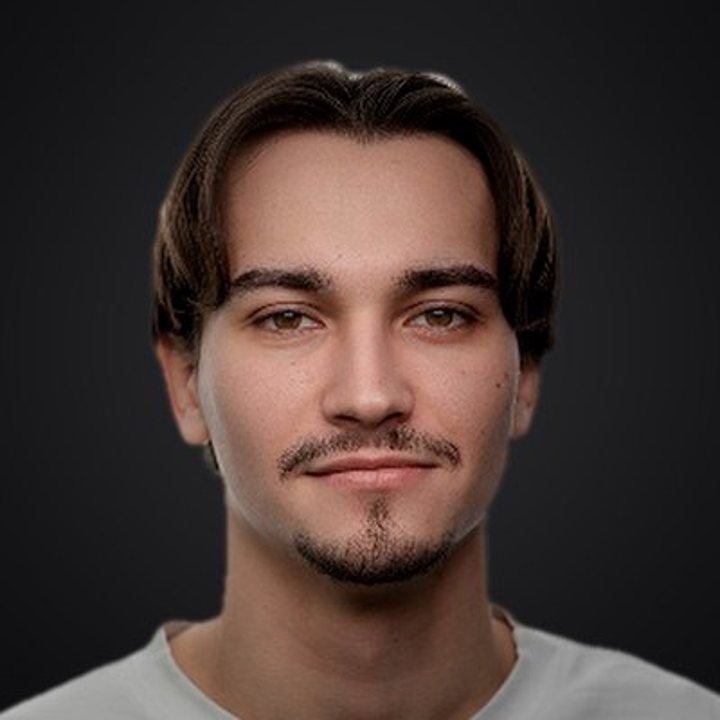
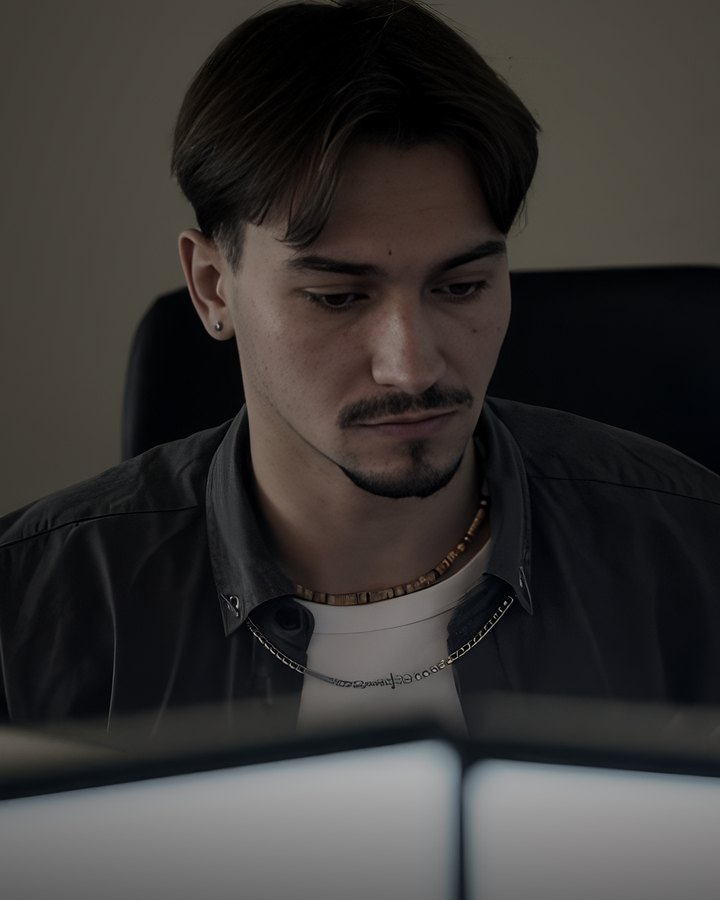
Hero: real photo, letter block with key points, Technopark instead of UBO

diff --git a/index.html b/index.html
@@ -352,6 +352,22 @@ dialog.player video { width: 100%; max-height: 88vh; display: block; background:
 .lead-t { font-size: clamp(22px, 2.5vw, 34px); font-weight: 700; line-height: 1.12; }
 .who-t { font-size: clamp(19px, 2vw, 27px); font-weight: 500; line-height: 1.38; }
 .case-cols p:first-child::first-letter { font-weight: 800; font-size: 44px; }
+/* ── письмо v2: главные мысли крупно, материалы списком ── */
+.letter2 { display: grid; grid-template-columns: minmax(0, 1.15fr) minmax(0, .85fr); gap: clamp(28px, 5vw, 84px); align-items: start; }
+@media (max-width: 860px) { .letter2 { grid-template-columns: 1fr; } }
+.l2-lead { font-weight: 800; font-size: clamp(28px, 3.3vw, 48px); line-height: 1.08; letter-spacing: -.02em; text-wrap: balance; max-width: 20ch; }
+.l2-lead em { font-style: normal; color: var(--gold); display: block; margin-top: .18em; }
+.l2-note { margin-top: 26px; font-size: clamp(16px, 1.3vw, 19px); line-height: 1.62; color: var(--dust); max-width: 50ch; }
+.l2-note b { color: var(--bone); font-weight: 600; }
+.letter2 .sign { margin-top: 34px; max-width: 22rem; }
+.l2-k { font-family: var(--mono); font-size: 12px; letter-spacing: .16em; text-transform: uppercase; color: var(--mute); margin-bottom: 14px; }
+.l2-list { list-style: none; border-top: 1px solid var(--line); }
+.l2-list li { display: flex; gap: 18px; align-items: baseline; padding: 18px 0; border-bottom: 1px solid var(--line); font-weight: 700; font-size: clamp(17px, 1.55vw, 22px); line-height: 1.3; }
+.l2-list li span { font-family: var(--mono); font-size: 12px; font-weight: 400; letter-spacing: .14em; color: var(--gold); flex-shrink: 0; }
+.l2-more { margin-top: clamp(30px, 5vh, 48px); font-family: var(--mono); font-size: 12.5px; letter-spacing: .14em; text-transform: uppercase; color: var(--dust); }
+/* hero — реальное фото: своё затемнение уже в кадре, CSS-градиент мягче */
+.hero-frame img { filter: none !important; object-position: 66% 40% !important; }
+.hero-frame::after { background: linear-gradient(90deg, rgba(8,8,10,.55) 0%, rgba(8,8,10,.15) 40%, rgba(8,8,10,0) 60%) !important; }
 </style>
 </head>
 <body class="v-client">
@@ -363,7 +379,7 @@ dialog.player video { width: 100%; max-height: 88vh; display: block; background:
 
 <main id="top">
   <section class="hero">
-    <div class="hero-frame"><img src="media/hero_A1.jpg" alt="Alexander Rakipov в монтажной" fetchpriority="high"></div>
+    <div class="hero-frame"><img src="media/hero_real.jpg" alt="Alexander Rakipov в монтажной" fetchpriority="high"></div>
     <div class="grain"></div>
     <div class="hero-scan"></div>
     <div class="hero-body">
@@ -377,19 +393,29 @@ dialog.player video { width: 100%; max-height: 88vh; display: block; background:
     </div>
     <div class="hero-foot">
       <div>TC <b>00:00:00:00</b> &nbsp;·&nbsp; 2024–2026 &nbsp;·&nbsp; <b>100+</b> роликов</div>
-      <div class="cap">AI-кадр · лицо держится по трём фото</div>
+      <div class="cap">Монтажная · Минск</div>
     </div>
   </section>
 
   <section class="sec p-only" id="letter">
     <div class="sec-head"><span class="sec-k">TC 00:15 · Павлу</span><h2 class="sec-t">Зачем эта страница</h2></div>
-    <div class="letter">
-      <div class="letter-t">
-        <p>Павел, ты строишь клиентам систему продаж. Дальше этой системе нужны <em>материалы</em>: ролик, который объясняет продукт, отзывы клиентов, презентация, после которой менеджеру есть что отправить, реклама, которая приводит заявки.</p>
-        <p>Сейчас твои клиенты собирают это у разных подрядчиков, а координация ложится на тебя. Эту часть я могу взять на себя. Ниже то, что я делаю, и как это выглядит на деле. Начну с твоего же Instagram.</p>
+    <div class="letter2">
+      <div>
+        <p class="l2-lead">Павел, ты строишь клиентам систему продаж. <em>Я даю ей материалы, которые продают.</em></p>
+        <p class="l2-note">Сейчас клиенты собирают их у разных подрядчиков, а координация ложится на тебя. <b>Эту часть беру на себя: один контакт, режиссура моя, продакшн — команда.</b></p>
+        <div class="sign"><b>Alexander Rakipov</b>режиссёр · AI-видео и продакшн<br>t.me/aliaksrakipov</div>
       </div>
-      <div class="sign"><b>Alexander Rakipov</b>режиссёр · AI-видео и продакшн<br>t.me/aliaksrakipov</div>
+      <div>
+        <div class="l2-k">Что нужно системе продаж</div>
+        <ol class="l2-list">
+          <li><span>01</span>Ролик, который объясняет продукт</li>
+          <li><span>02</span>Отзывы клиентов, которым верят</li>
+          <li><span>03</span>Презентация, которую менеджер отправляет после звонка</li>
+          <li><span>04</span>Реклама, которая приводит заявки</li>
+        </ol>
+      </div>
     </div>
+    <p class="l2-more">Ниже — как это выглядит на деле. Начну с твоего же Instagram.</p>
   </section>
 
   <section class="sec" id="services">

diff --git a/pavel.html b/pavel.html
@@ -352,6 +352,22 @@ dialog.player video { width: 100%; max-height: 88vh; display: block; background:
 .lead-t { font-size: clamp(22px, 2.5vw, 34px); font-weight: 700; line-height: 1.12; }
 .who-t { font-size: clamp(19px, 2vw, 27px); font-weight: 500; line-height: 1.38; }
 .case-cols p:first-child::first-letter { font-weight: 800; font-size: 44px; }
+/* ── письмо v2: главные мысли крупно, материалы списком ── */
+.letter2 { display: grid; grid-template-columns: minmax(0, 1.15fr) minmax(0, .85fr); gap: clamp(28px, 5vw, 84px); align-items: start; }
+@media (max-width: 860px) { .letter2 { grid-template-columns: 1fr; } }
+.l2-lead { font-weight: 800; font-size: clamp(28px, 3.3vw, 48px); line-height: 1.08; letter-spacing: -.02em; text-wrap: balance; max-width: 20ch; }
+.l2-lead em { font-style: normal; color: var(--gold); display: block; margin-top: .18em; }
+.l2-note { margin-top: 26px; font-size: clamp(16px, 1.3vw, 19px); line-height: 1.62; color: var(--dust); max-width: 50ch; }
+.l2-note b { color: var(--bone); font-weight: 600; }
+.letter2 .sign { margin-top: 34px; max-width: 22rem; }
+.l2-k { font-family: var(--mono); font-size: 12px; letter-spacing: .16em; text-transform: uppercase; color: var(--mute); margin-bottom: 14px; }
+.l2-list { list-style: none; border-top: 1px solid var(--line); }
+.l2-list li { display: flex; gap: 18px; align-items: baseline; padding: 18px 0; border-bottom: 1px solid var(--line); font-weight: 700; font-size: clamp(17px, 1.55vw, 22px); line-height: 1.3; }
+.l2-list li span { font-family: var(--mono); font-size: 12px; font-weight: 400; letter-spacing: .14em; color: var(--gold); flex-shrink: 0; }
+.l2-more { margin-top: clamp(30px, 5vh, 48px); font-family: var(--mono); font-size: 12.5px; letter-spacing: .14em; text-transform: uppercase; color: var(--dust); }
+/* hero — реальное фото: своё затемнение уже в кадре, CSS-градиент мягче */
+.hero-frame img { filter: none !important; object-position: 66% 40% !important; }
+.hero-frame::after { background: linear-gradient(90deg, rgba(8,8,10,.55) 0%, rgba(8,8,10,.15) 40%, rgba(8,8,10,0) 60%) !important; }
 </style>
 </head>
 <body class="v-pavel">
@@ -363,7 +379,7 @@ dialog.player video { width: 100%; max-height: 88vh; display: block; background:
 
 <main id="top">
   <section class="hero">
-    <div class="hero-frame"><img src="media/hero_A1.jpg" alt="Alexander Rakipov в монтажной" fetchpriority="high"></div>
+    <div class="hero-frame"><img src="media/hero_real.jpg" alt="Alexander Rakipov в монтажной" fetchpriority="high"></div>
     <div class="grain"></div>
     <div class="hero-scan"></div>
     <div class="hero-body">
@@ -377,19 +393,29 @@ dialog.player video { width: 100%; max-height: 88vh; display: block; background:
     </div>
     <div class="hero-foot">
       <div>TC <b>00:00:00:00</b> &nbsp;·&nbsp; 2024–2026 &nbsp;·&nbsp; <b>100+</b> роликов</div>
-      <div class="cap">AI-кадр · лицо держится по трём фото</div>
+      <div class="cap">Монтажная · Минск</div>
     </div>
   </section>
 
   <section class="sec p-only" id="letter">
     <div class="sec-head"><span class="sec-k">TC 00:15 · Павлу</span><h2 class="sec-t">Зачем эта страница</h2></div>
-    <div class="letter">
-      <div class="letter-t">
-        <p>Павел, ты строишь клиентам систему продаж. Дальше этой системе нужны <em>материалы</em>: ролик, который объясняет продукт, отзывы клиентов, презентация, после которой менеджеру есть что отправить, реклама, которая приводит заявки.</p>
-        <p>Сейчас твои клиенты собирают это у разных подрядчиков, а координация ложится на тебя. Эту часть я могу взять на себя. Ниже то, что я делаю, и как это выглядит на деле. Начну с твоего же Instagram.</p>
+    <div class="letter2">
+      <div>
+        <p class="l2-lead">Павел, ты строишь клиентам систему продаж. <em>Я даю ей материалы, которые продают.</em></p>
+        <p class="l2-note">Сейчас клиенты собирают их у разных подрядчиков, а координация ложится на тебя. <b>Эту часть беру на себя: один контакт, режиссура моя, продакшн — команда.</b></p>
+        <div class="sign"><b>Alexander Rakipov</b>режиссёр · AI-видео и продакшн<br>t.me/aliaksrakipov</div>
       </div>
-      <div class="sign"><b>Alexander Rakipov</b>режиссёр · AI-видео и продакшн<br>t.me/aliaksrakipov</div>
+      <div>
+        <div class="l2-k">Что нужно системе продаж</div>
+        <ol class="l2-list">
+          <li><span>01</span>Ролик, который объясняет продукт</li>
+          <li><span>02</span>Отзывы клиентов, которым верят</li>
+          <li><span>03</span>Презентация, которую менеджер отправляет после звонка</li>
+          <li><span>04</span>Реклама, которая приводит заявки</li>
+        </ol>
+      </div>
     </div>
+    <p class="l2-more">Ниже — как это выглядит на деле. Начну с твоего же Instagram.</p>
   </section>
 
   <section class="sec" id="services">
